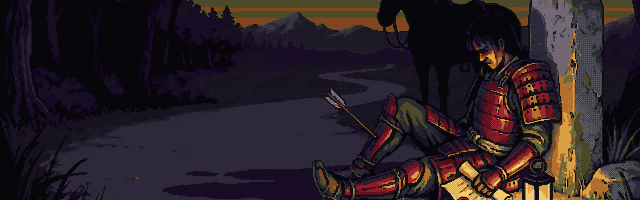
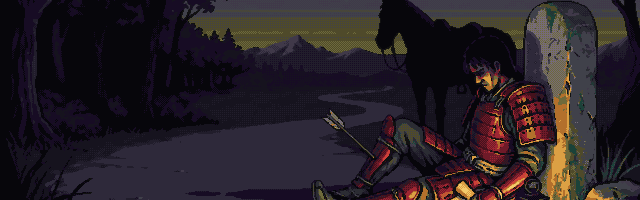
Event art: courier headroom, per-painting focal point, review contact sheet and README
Claude-Session: https://claude.ai/code/session_01KHcpDjT28dMAjN1D3JiiVV

diff --git a/src/ui/eventBand.js b/src/ui/eventBand.js
@@ -8,7 +8,7 @@
 //   - Reduce motion (the game setting or the OS preference) shows the end state: no fade.
 // Decoration only: aria-hidden, never focusable, never changes game state.
 import { element } from './MenuSurface.js';
-import { eventVignetteUrl, prefersStill } from './itemMoments.js';
+import { eventVignetteFocus, eventVignetteUrl, prefersStill } from './itemMoments.js';
 
 // Per-session memory of what the browser has already answered, so a page that re-renders
 // (a choice, a roster close) paints the band straight away instead of flashing the strip.
@@ -21,8 +21,9 @@ export function resetEventBandCache() {
   missing.clear();
 }
 
-function paint(band, url) {
+function paint(band, url, focus) {
   band.style.setProperty('--ev-art', `url("${url}")`);
+  if (focus) band.style.setProperty('--ev-focus', focus);
   band.classList.add('has-art');
 }
 
@@ -36,10 +37,11 @@ export function createEventBand(eventId, scene = null) {
   band.setAttribute('aria-hidden', 'true');
   if (eventId) band.dataset.event = eventId;
   const url = eventId ? eventVignetteUrl(eventId) : null;
+  const focus = eventId ? eventVignetteFocus(eventId) : null;
   if (!url || missing.has(eventId)) return band;
   if (loaded.has(eventId)) {
     band.classList.add('is-ready');
-    paint(band, url);
+    paint(band, url, focus);
     return band;
   }
   if (prefersStill(scene)) band.classList.add('is-still');
@@ -47,7 +49,7 @@ export function createEventBand(eventId, scene = null) {
   const probe = new Image();
   probe.onload = () => {
     loaded.add(eventId);
-    paint(band, url);
+    paint(band, url, focus);
   };
   probe.onerror = () => {
     missing.add(eventId);

diff --git a/tests/EventArt.test.js b/tests/EventArt.test.js
@@ -9,7 +9,7 @@ import fs from 'node:fs';
 import path from 'node:path';
 import { createHash } from 'node:crypto';
 import manifest from '../src/ui/momentArtManifest.json';
-import { eventVignetteUrl } from '../src/ui/itemMoments.js';
+import { eventVignetteFocus, eventVignetteUrl } from '../src/ui/itemMoments.js';
 import { createEventBand, resetEventBandCache } from '../src/ui/eventBand.js';
 import sharp from 'sharp';
 import { decodePng } from '../tools/art/icons/lib/png.mjs';
@@ -152,6 +152,18 @@ describe('the Event page band', () => {
     expect(again.classList.contains('has-art')).toBe(true);
     expect(again.classList.contains('is-ready')).toBe(true); // no fade-in flash
     expect(probes).toHaveLength(1); // not probed twice
+  });
+
+  it('a painting with a focal point carries it into the band, others keep the centre', () => {
+    expect(eventVignetteFocus('twin_altar')).toMatch(/^\d{1,3}%$/);
+    expect(eventVignetteFocus('quiet_road')).toBeNull();
+    expect(eventVignetteFocus('no_such_event')).toBeNull();
+    const band = createEventBand('twin_altar');
+    probes[0].onload();
+    expect(band.style.getPropertyValue('--ev-focus')).toBe(eventVignetteFocus('twin_altar'));
+    const plain = createEventBand('quiet_road');
+    probes[1].onload();
+    expect(plain.style.getPropertyValue('--ev-focus')).toBe('');
   });
 
   it('a missing or failed painting leaves the strip and is never retried', () => {

diff --git a/src/ui/eventMenu.css b/src/ui/eventMenu.css
@@ -37,7 +37,7 @@
   position: absolute;
   inset: 0 0 0 auto;
   width: 100%;
-  background: var(--ev-art, none) 75% 50% / cover no-repeat;
+  background: var(--ev-art, none) 75% var(--ev-focus, 50%) / cover no-repeat;
   opacity: 0;
   transition: opacity 0.45s ease-out;
 }
@@ -75,7 +75,7 @@
   }
   .ev-band::before {
     width: min(100%, calc(var(--ev-band-h) * 4.6));
-    background-position: 62% 50%;
+    background-position: 62% var(--ev-focus, 50%);
     -webkit-mask-image: linear-gradient(90deg, transparent 0%, #000 42%);
     mask-image: linear-gradient(90deg, transparent 0%, #000 42%);
   }

diff --git a/src/ui/itemMoments.js b/src/ui/itemMoments.js
@@ -50,6 +50,12 @@ export function eventVignetteUrl(eventId) {
   return entry ? absolute(`${base()}assets/ui/moments/events/${eventId}.png?v=${entry.v}`) : null;
 }
 
+/** An event painting's vertical focal point (a CSS percentage, e.g. '20%'), or null for centre. */
+export function eventVignetteFocus(eventId) {
+  const focus = manifest.events?.[eventId]?.focus;
+  return typeof focus === 'string' && /^\d{1,3}%$/.test(focus) ? focus : null;
+}
+
 /** Reduce motion: the game setting or the OS preference. */
 export function prefersStill(scene) {
   try {

diff --git a/docs/art-direction/events/README.md b/docs/art-direction/events/README.md
@@ -1,0 +1,92 @@
+# Event art (route-map medal and event vignettes)
+
+Plan: `docs/specs/event-art.md` items 1 and 2. House style: `docs/art-direction/ART_BIBLE.md`.
+Everything was generated with the shared Gemini client (`tools/art/gen`, model
+`gemini-3-pro-image` for every shipped picture), then treated into the game palette in code.
+Raw generations live in `References/` (gitignored); only the treated, display-size files ship.
+
+## What ships
+
+| Asset | File | Size | Wired in |
+| --- | --- | --- | --- |
+| Event medal + Dark Omen (frames 9 and 10, 96 px) | `assets/sprites/nodes/event-nodes.png` | 192x96, 3.1 KB | `src/ui/NodeArt.js` (CSS sprite), `RouteGraph.js` `FRAMES.event`, `nodeFrame()` |
+| Canvas-fallback medal `node_event` | `assets/sprites/nodes/node_event.png` | 48x48, 0.7 KB | `BootScene` node icons, `NodeMapScene` `node_${type}` |
+| Ten event vignettes | `assets/ui/moments/events/<eventId>.png` | 640x200, 13-27 KB each | `src/ui/eventBand.js` from `EventMenu.js`, lazy; manifest `src/ui/momentArtManifest.json` `events` |
+
+Both asset trees (`assets/` and `public/assets/`) hold identical bytes. Nothing is loaded at boot
+except the 48 px canvas fallback; the vignettes are fetched when the event page opens.
+
+## How to regenerate
+
+- Medal: `node tools/art/nodes/generateMedal.mjs` (concepts: signpost, cairn, lantern), then
+  `--dark <picked raw>` for the Dark Omen; `node tools/art/nodes/bakeMedals.mjs` keys the white
+  field out, fits both medals with one shared transform and writes the sheet and fallback.
+  Prompts: `tools/art/nodes/prompts.mjs`; picks: `tools/art/nodes/selections.json`
+  (`event` = `lantern-t1`, `dark` = `dark-t1`).
+- Vignettes: `node tools/art/moments/generate.mjs --kind event [--only id,id] [--takes 4]
+  [--from 5]`, then `node tools/art/moments/treat.mjs --only event [--ids id,id]`. Prompts:
+  `EVENT` and `EVENTS` in `tools/art/moments/prompts.mjs` (one subject per event, composed from
+  its intro; 21:9 raw, cropped to 3.2:1 by the pick's `crop`); picks and crops:
+  `tools/art/moments/selections.json` `events` (an optional `focus` is the band's vertical focal
+  point on a short, wide page).
+- Review captures: `tools/art/nodes/captureEvents.mjs` (dev server on 3107; the Chromium path is
+  an argument). The sheets here came from it.
+
+## Picks and why
+
+Prompt shape (vignettes): one house-style paragraph (`WORLD`) plus "ultra-wide cinematic header,
+subject right of centre, left third quieter and darker, people small and anonymous, no writing at
+all", then the event's subject. The page puts the title over the quiet left third.
+
+| Event | Pick | Note |
+| --- | --- | --- |
+| old_swordmaster | t3 | Woman with a white braid splitting a log with a wooden practice sword; lit window. |
+| abandoned_armory | t2 | Ajar door, boots, cold pot, racks, a barred inner door with violet light under it. |
+| twin_altar | t3, crop, `focus 0%` | Two-faced stone, dawn on one side, eclipse and more candles on the other. The disc sits at the top edge, so the band keeps the top on a short page. |
+| wounded_courier | t4 (this pass), crop 10% / 17% | See below. |
+| deserters_fire | t2 | Six deserters around a small fire, armour dropped in the grass, nobody armed. |
+| the_echo | t1 | Cairn with a helmet, pale-violet ghost soldier seen from behind. |
+| toll_bridge | t1 | Rope bridge, toll hut, crossbowman reading a ledger. |
+| moneylender | t1 | Gilded cart, guards, a thin man in fine gloves with a ledger. |
+| drill_yard | t6 (this pass), crop 16% / 12.6% | See below. |
+| quiet_road | t2 | Empty road, well, birds on the rim. |
+
+Rejections, recorded for the two redone this pass (4 takes each, all `gemini-3-pro-image`):
+
+- wounded_courier: t1 had no arrow at all; t2 put the arrow in a tree-trunk composition with a
+  green fletching and a face hidden by the helmet; t3 was good but added an unrequested hooded
+  smith with an anvil to the left, which reads as a second story; **t4 kept**: slumped against the
+  milestone, arrow through the thigh, the dispatch in his hand, horse in silhouette, lantern at
+  his side. The first crop cut his head against the band's top edge on a 640 px page, so the crop
+  was moved down for headroom (the boots give way to the page's ink fade instead).
+- drill_yard: the earlier pick had an orange glow ring round the sand pit that read as lava and
+  figures in the foreground, wrong for an *abandoned* yard. Takes 1-4 with the old prompt put a
+  man by a fire in three of four (t3 was the best of them), so the prompt now says "empty, nobody
+  in it, no people at all" (takes 5-8): t5 a crowd of straw men drilling in ranks (too busy, no
+  quiet left third), t7 big foreground dummies with a candle and a pit (fine, but busier and
+  brighter than the other nine), t8 letterboxed with black bars and a red barn wall; **t6 kept**:
+  empty yard, smoking fire pit, blank sign, blades, sand pit, shuttered barracks.
+- Raw generations for the other eight vignettes and the medal were in the container that
+  restarted; their picks above are the ones the previous pass made and reviewed (the shipped PNGs
+  are the source of truth, and the manifest hash is checked by `tests/EventArt.test.js`). Their
+  rejected takes were not recorded.
+
+## Review at display size
+
+Checked on the loom and the page at 640x480, 844x390 (landscape phone) and 390x844 (upright phone):
+
+- `route-map.png`: live Events beside a fallen one. The lantern post reads at 29 px as an
+  Event and not as the Ruins; the Dark Omen (violet flame, eclipse disc, ember cracks) reads at
+  the same size and the ink rim is eased on it so the art shows. The Ruins medal's old "?" is
+  gone; it remains only as the fallback when `event-nodes.png` is missing.
+- `event-pages.png`: the head of three pages (rows: Drill Yard, Toll Bridge, Twin Altar; columns:
+  640x480, 844x390, 390x844). Stacked over the title on a phone, laid behind the title with the
+  ink dissolving on the left on a wide screen. Findings fixed in this pass: the Twin Altar's
+  eclipse disc was cropped on a short band (a `focus` point now keeps the top), the courier's
+  head touched the band's top edge (re-cropped), and the band had a raw `z-index` that the UI
+  theme check refuses (the hero is now simply painted after the band).
+- `vignettes.png`: all ten as shipped. `medal.png`: the Event medal and its Dark Omen at 3x
+  beside the Church, Shop and Ruins medals, for the line weight and palette.
+
+Not covered: the Echo's page (it needs a fallen ally to be picked, so the review route drew a
+different event); its painting was reviewed on its own in the sheet.
